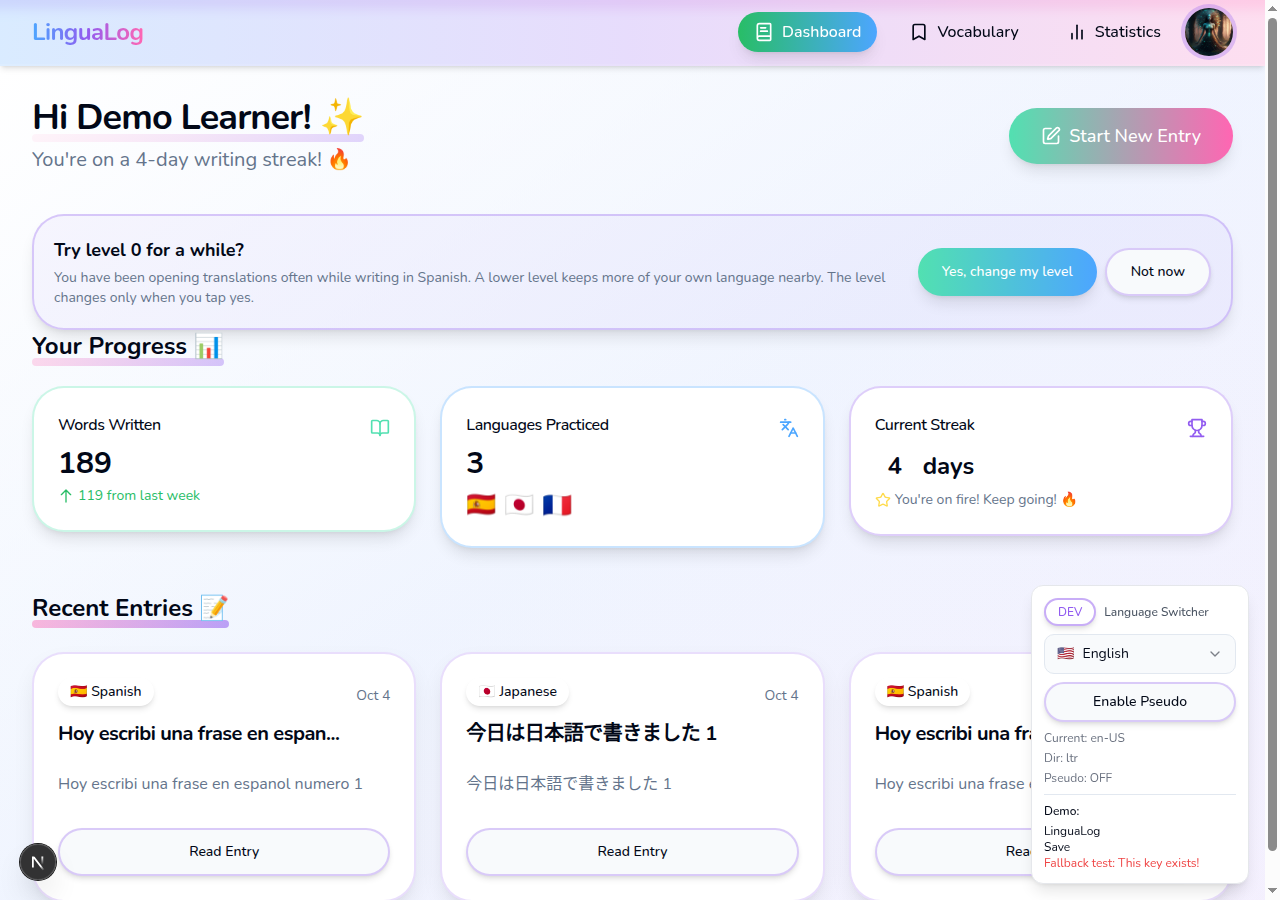
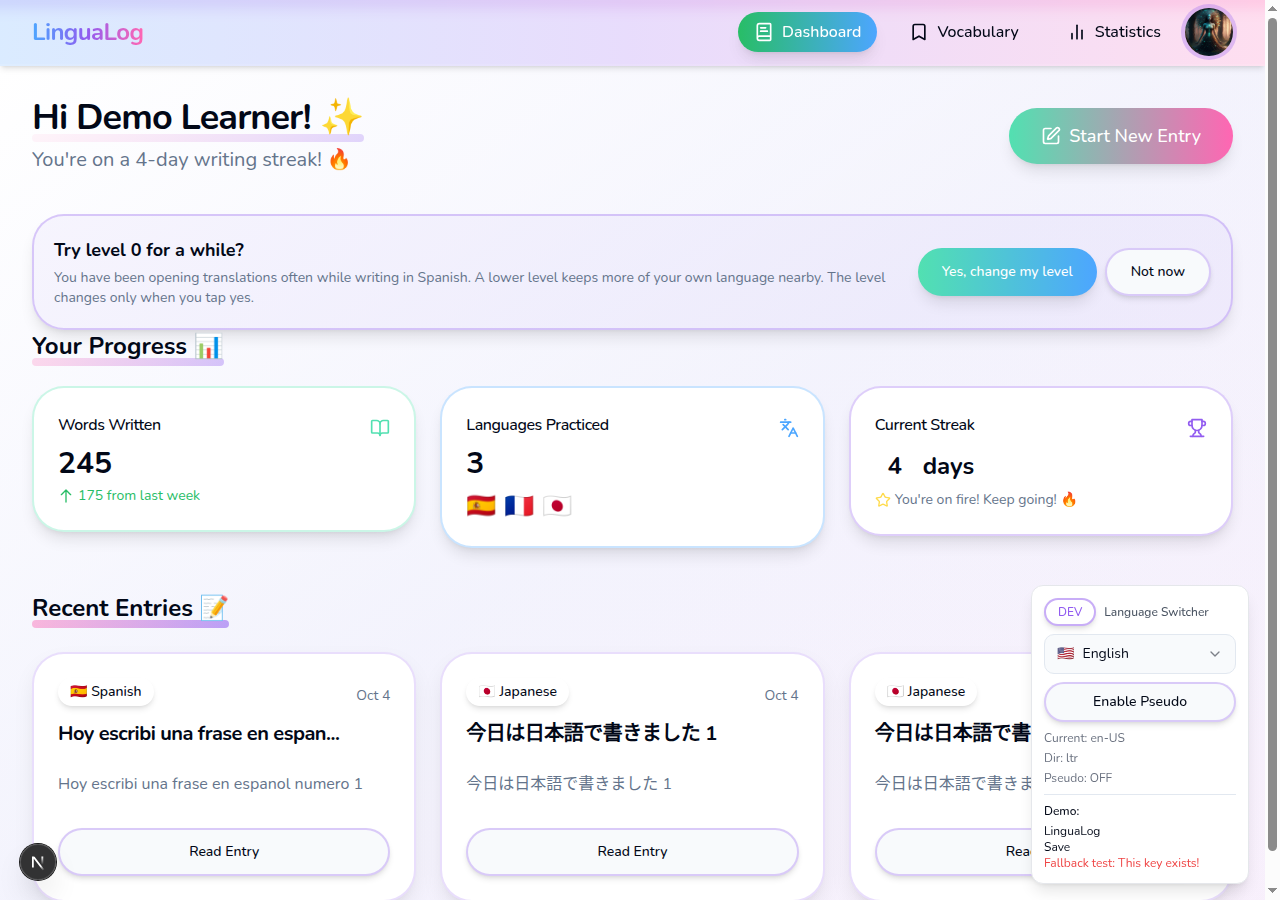
Recapture the level-suggestion proof against the current windows.
The cards now come from scored entries stored at the learner's current level, so the screenshots match that rule.

Changed region(s): [[0.6875, 0.7467, 0.8125, 0.9022], [0.375, 0.5289, 0.4688, 0.5911], [0.0312, 0.4978, 0.0938, 0.5289]]

diff --git a/docs/evidence/lingualog-adaptive-level/README.md b/docs/evidence/lingualog-adaptive-level/README.md
@@ -1,20 +1,16 @@
 # Suggested immersion levels: live proof
 
-> **Note:** This run was captured before the review fix to the suggestion windows. Suggestions
-> now count only entries with `analysis_status` `ok` whose `policy_snapshot.immersion_level`
-> matches the current level (see `backend/level_suggestion.py`). The seed described below
-> (mock feedback, some entries without a policy snapshot) would no longer produce these cards,
-> so the screenshots show the earlier rules.
-
 Captured 2026-10-04 in headless Chrome against a local `make dev`-style stack (own ports, own
-Supabase project id via an untracked override). Demo learner, L1 English. Spanish was seeded at
-immersion 1 with a meaning reveal on 3 of the last 5 entries (exactly 60%). Japanese was seeded
-at immersion 2 with 8 entries scored 80 and no support taps.
+Supabase project id via an untracked override), on the code that counts only entries with
+`analysis_status` `ok`, a real score, and `policy_snapshot.immersion_level` equal to the current
+level. Demo learner, L1 English. Spanish was at immersion 1 with five such entries and a meaning
+reveal on the three newest (exactly 60%). Japanese was at immersion 2 with eight such entries
+scored 80 and no support taps.
 
 | Shot | What it shows |
 |---|---|
-| `before-dashboard.png` | Dashboard before the suggestion: no card |
-| `before-entry.png` | Side-by-side entry before the suggestion: no card |
+| `before-dashboard.png` | Dashboard before enough qualifying entries: no card |
+| `before-entry.png` | One scored Japanese entry: side by side, no card |
 | `after-dashboard-step-down.png` | Dashboard card: "Try level 0 for a while?" |
 | `after-entry-step-up.png` | Japanese entry card: "Ready for level 3?" |
 | `after-settings-spanish-0.png` | After one tap on Yes, Settings shows Spanish immersion 0/3 |
@@ -27,11 +23,9 @@ at immersion 2 with 8 entries scored 80 and no support taps.
   (7 days). Japanese immersion stayed 2.
 - Accept on the Spanish card wrote the profile through `save_user_settings`: Spanish immersion 0,
   and the default-language `user_settings.immersion_level` is 0. The card left the dashboard.
-- A later `GET /user/level-suggestions` returned no suggestions.
 
 ## Provider calls
 
-- Gemini: 0. Feedback on the seeded rows is the offline mock.
-- Lara: 2 successful meaning translations (`POST /entries/{id}/translate` 200, provider `lara`).
-  Both entries had no stored policy snapshot, so the result page asked for a meaning translation
-  while the proof was open. No Gemini fallback.
+- Gemini: 0. The qualifying rows were seeded with `analysis_status` `ok` and stored scores.
+- Lara: 0. The opened entry already had a saved meaning, and the translate request was served
+  from that cache.
